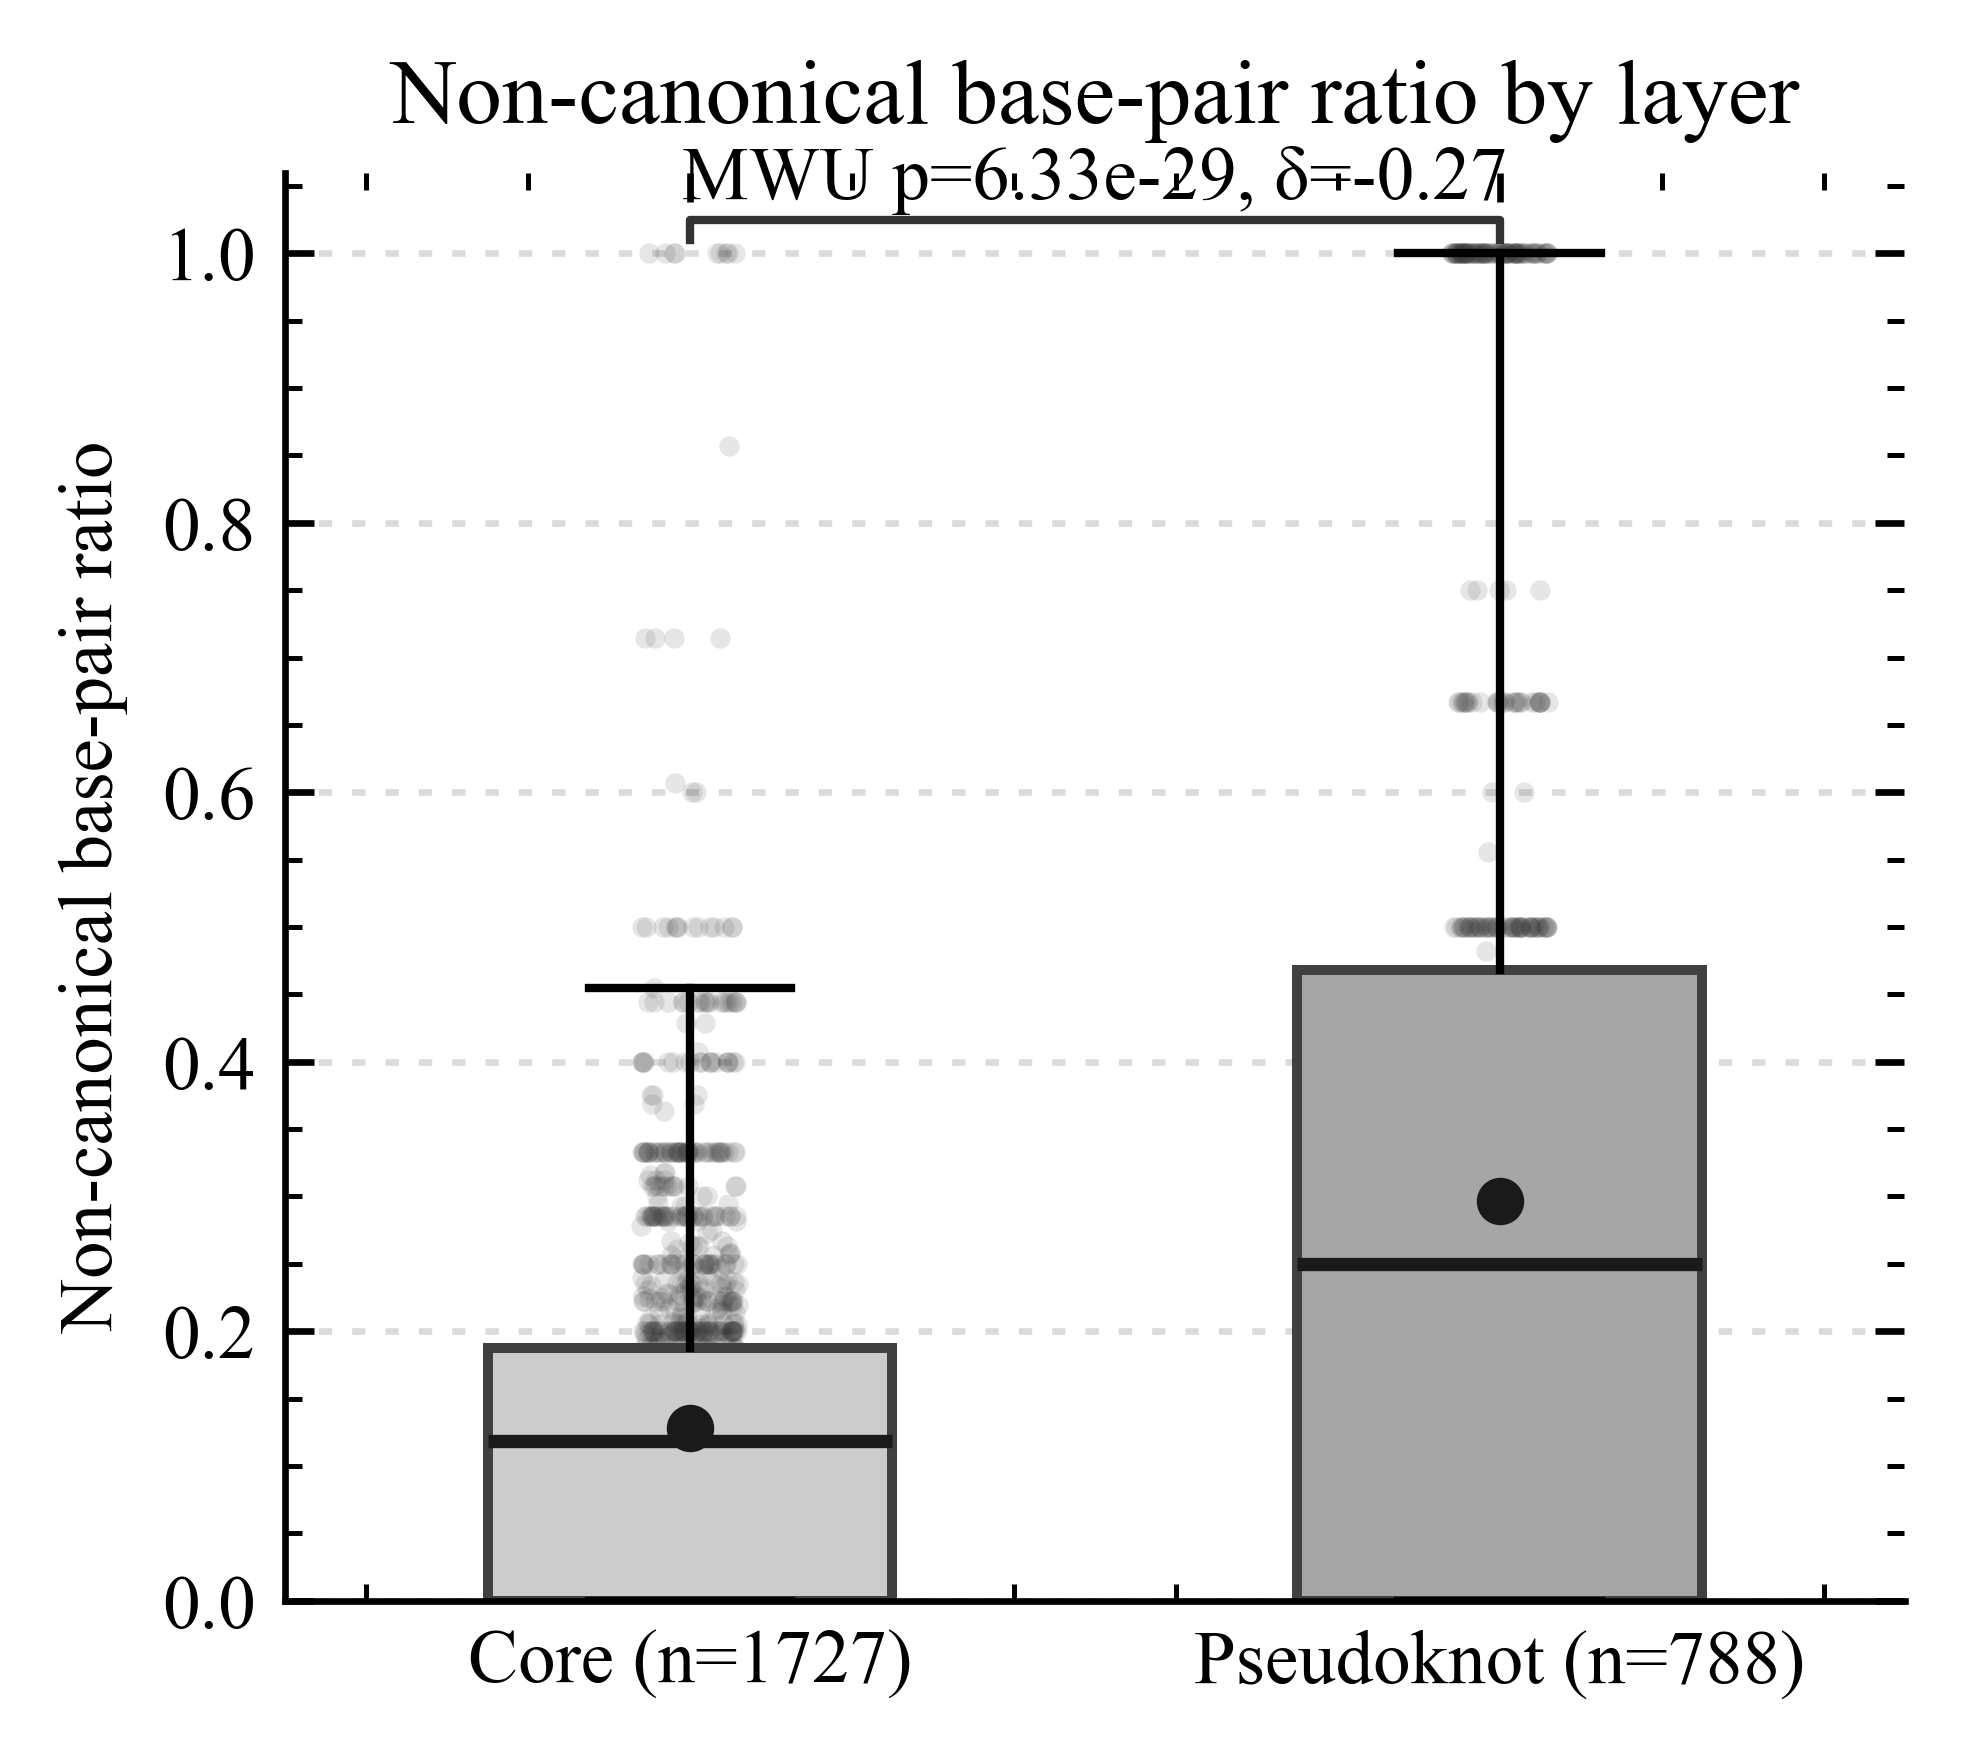
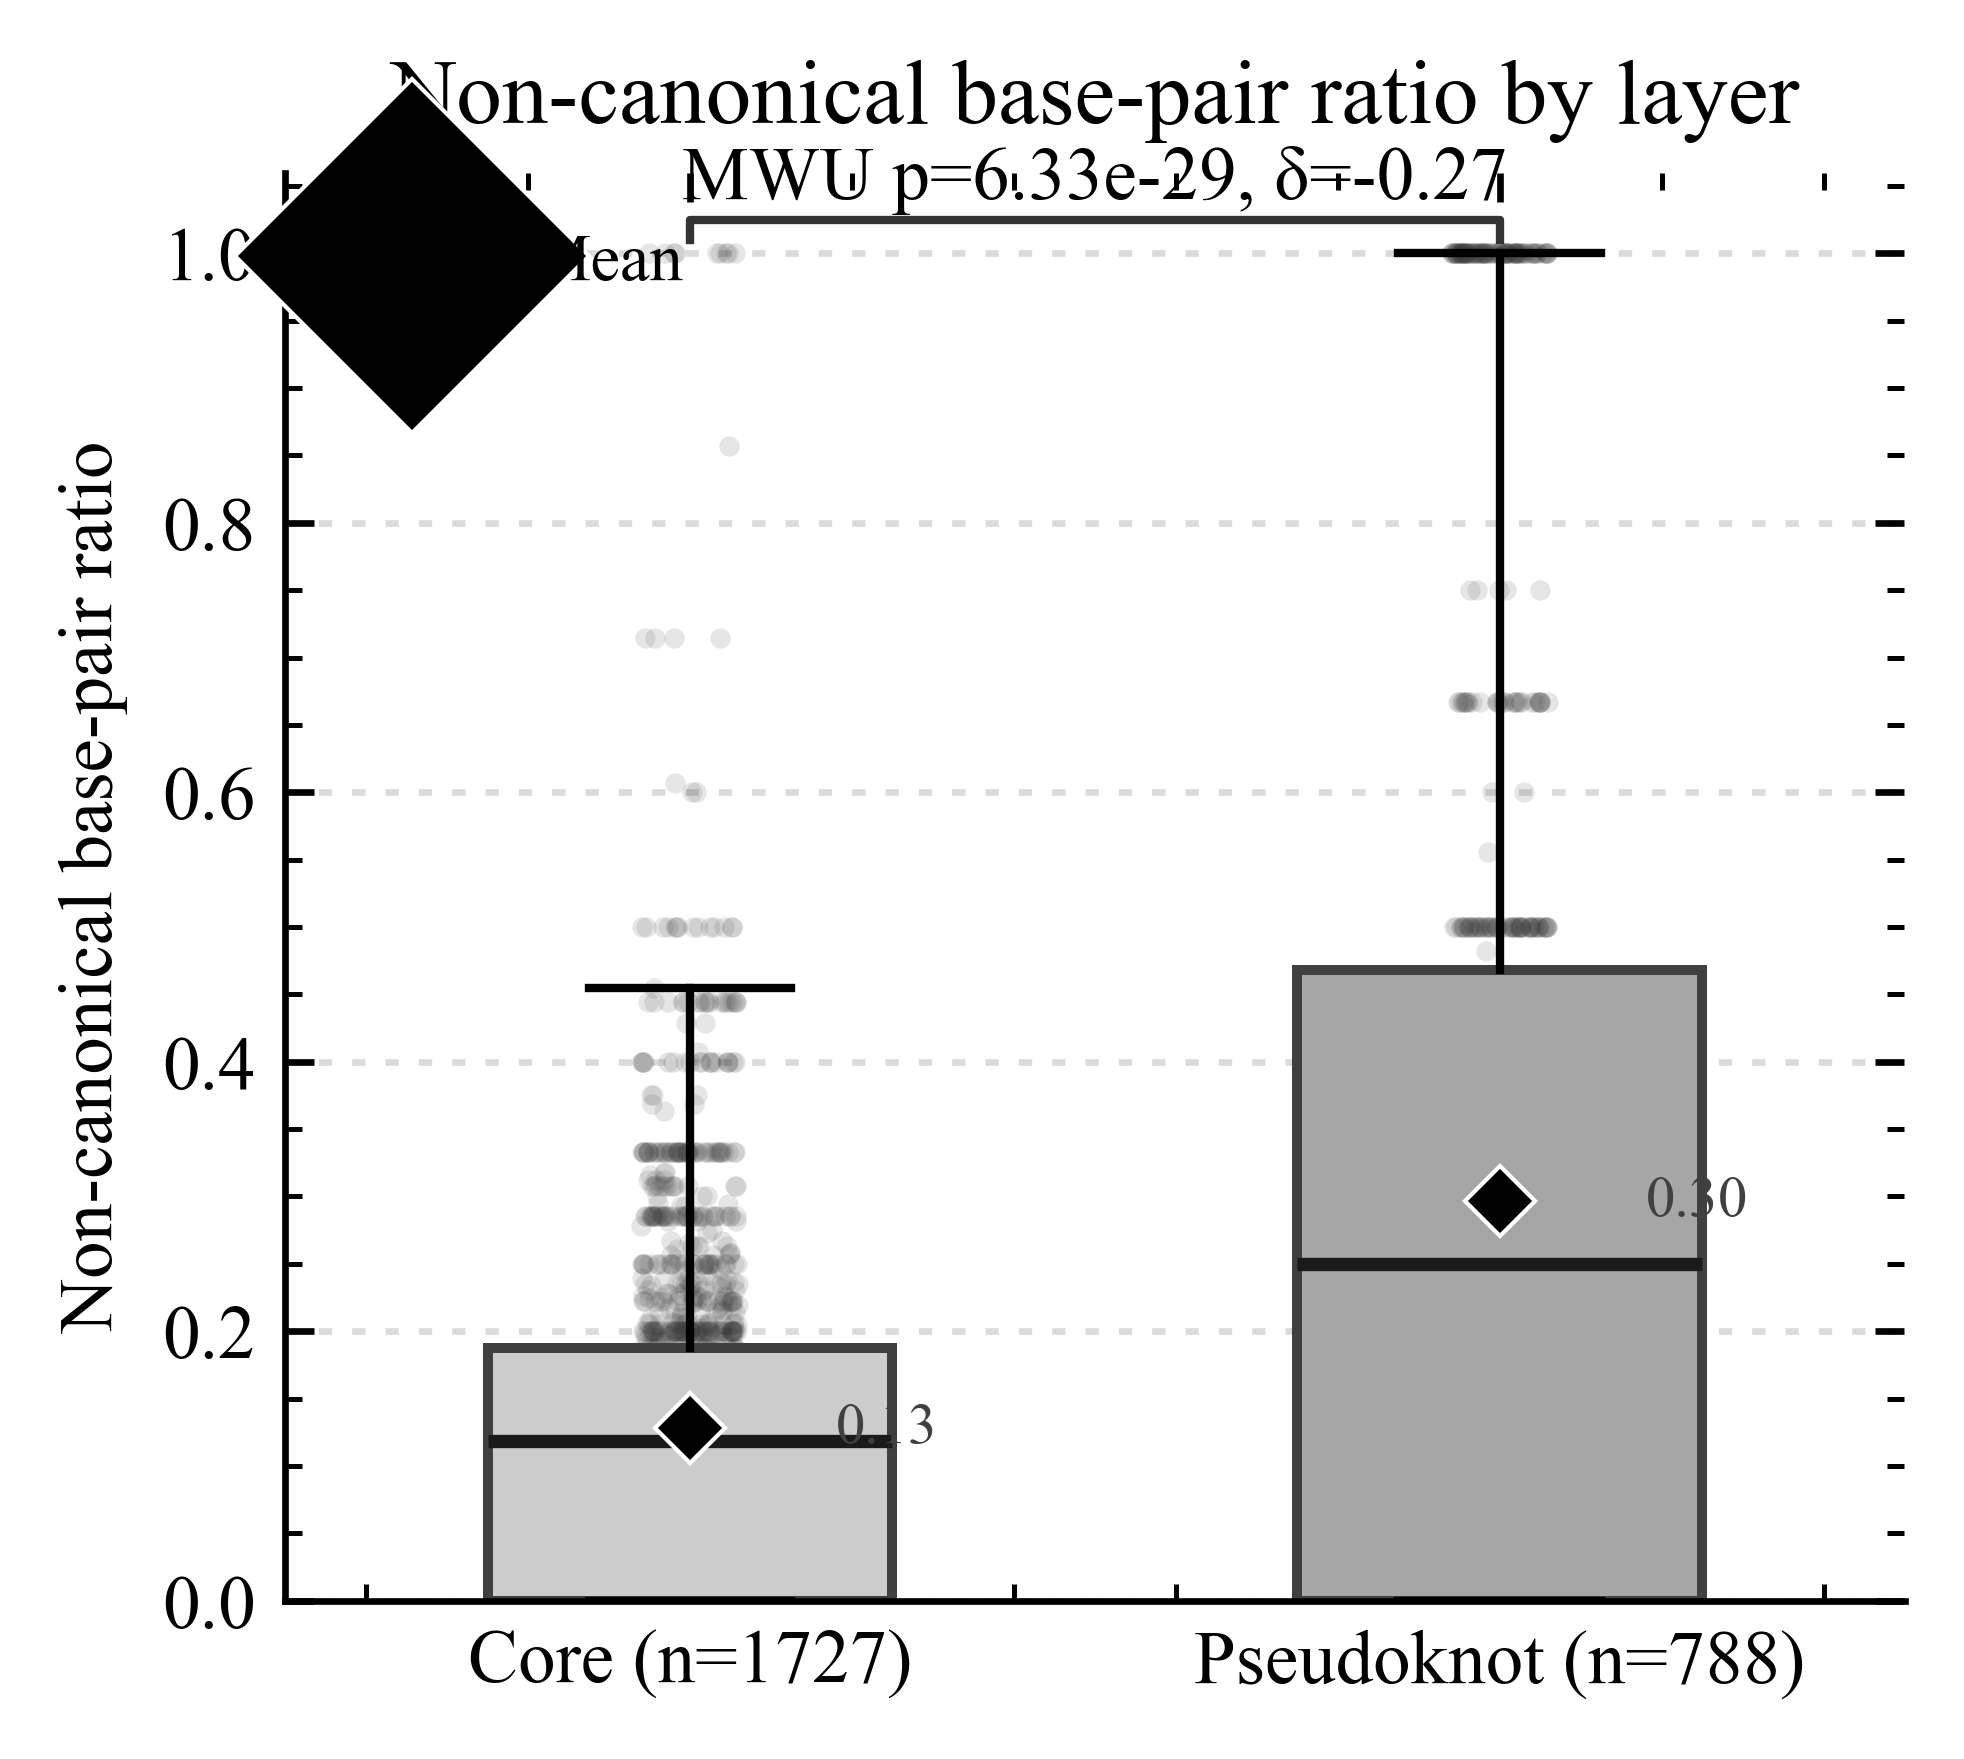
boxplot に mean を追記

diff --git a/analysis/pseudoknotlayer_plotting.py b/analysis/pseudoknotlayer_plotting.py
@@ -131,13 +131,21 @@ def plot_non_canonical_ratio_box(
     for b, fc in zip(box['boxes'], fills):
         b.set(facecolor=fc, edgecolor='0.25', linewidth=1.2)
 
+    # 平均値（mean）は視認性を高めるため黒のダイヤマーカーで表示 (凡例付き)
     means = [s.mean() for s in series_list]
-    ax.scatter(range(1, len(series_list) + 1), means, marker='o', s=22, c='0.1', zorder=3)
+    for i, m in enumerate(means, start=1):
+        ax.plot(i, m, marker='D', markersize=6, color='black', markeredgecolor='white', markeredgewidth=0.5, label='Mean' if i == 1 else None, zorder=4)
+        ax.text(i + 0.18, m, f"{m:.2f}", va='center', ha='left', fontsize=7, color='0.25')
 
+    # 既存の散布図（個々のデータ点）
     rng = np.random.default_rng(seed)
     for i, s in enumerate(series_list, start=1):
         x = np.full(len(s), i, dtype=float) + rng.uniform(-0.06, 0.06, size=len(s))
         ax.scatter(x, s.values, s=6, c='0.2', alpha=0.12, linewidth=0, zorder=1)
+
+    # 凡例（Mean のみ）
+    if len(series_list) > 0:
+        ax.legend(frameon=False, fontsize=8, loc='upper left')
 
     ax.set_xticks(range(1, len(series_list) + 1))
     ax.set_xticklabels(xticklabels)
@@ -169,14 +177,13 @@ def plot_non_canonical_ratio_box(
                     ha='center', va='bottom', fontsize=9)
 
     # タイトル分の余白を確保
-    fig.tight_layout(rect=[0.0, 0.0, 1.0, 0.97])
+    fig.tight_layout(rect=(0.0, 0.0, 1.0, 0.97))
 
     # ---- 保存：PNG ----
     outdir = (output_dir / parser)
     outdir.mkdir(parents=True, exist_ok=True)
     base = outdir / f"box_noncanonical_ratio_core_vs_pseudoknot_{variant}"
-    # fig.savefig(base.with_suffix(".png"), dpi=600, bbox_inches='tight')
-    fig.savefig(base.with_suffix(".png"), dpi=600, bbox_inches='tight', transparent=True)
+    fig.savefig(str(base.with_suffix(".png")), dpi=600, bbox_inches='tight', transparent=True)
     plt.close(fig)
     print(f"Saved PNG: {base.with_suffix('.png')}")
     return base.with_suffix(".png")
